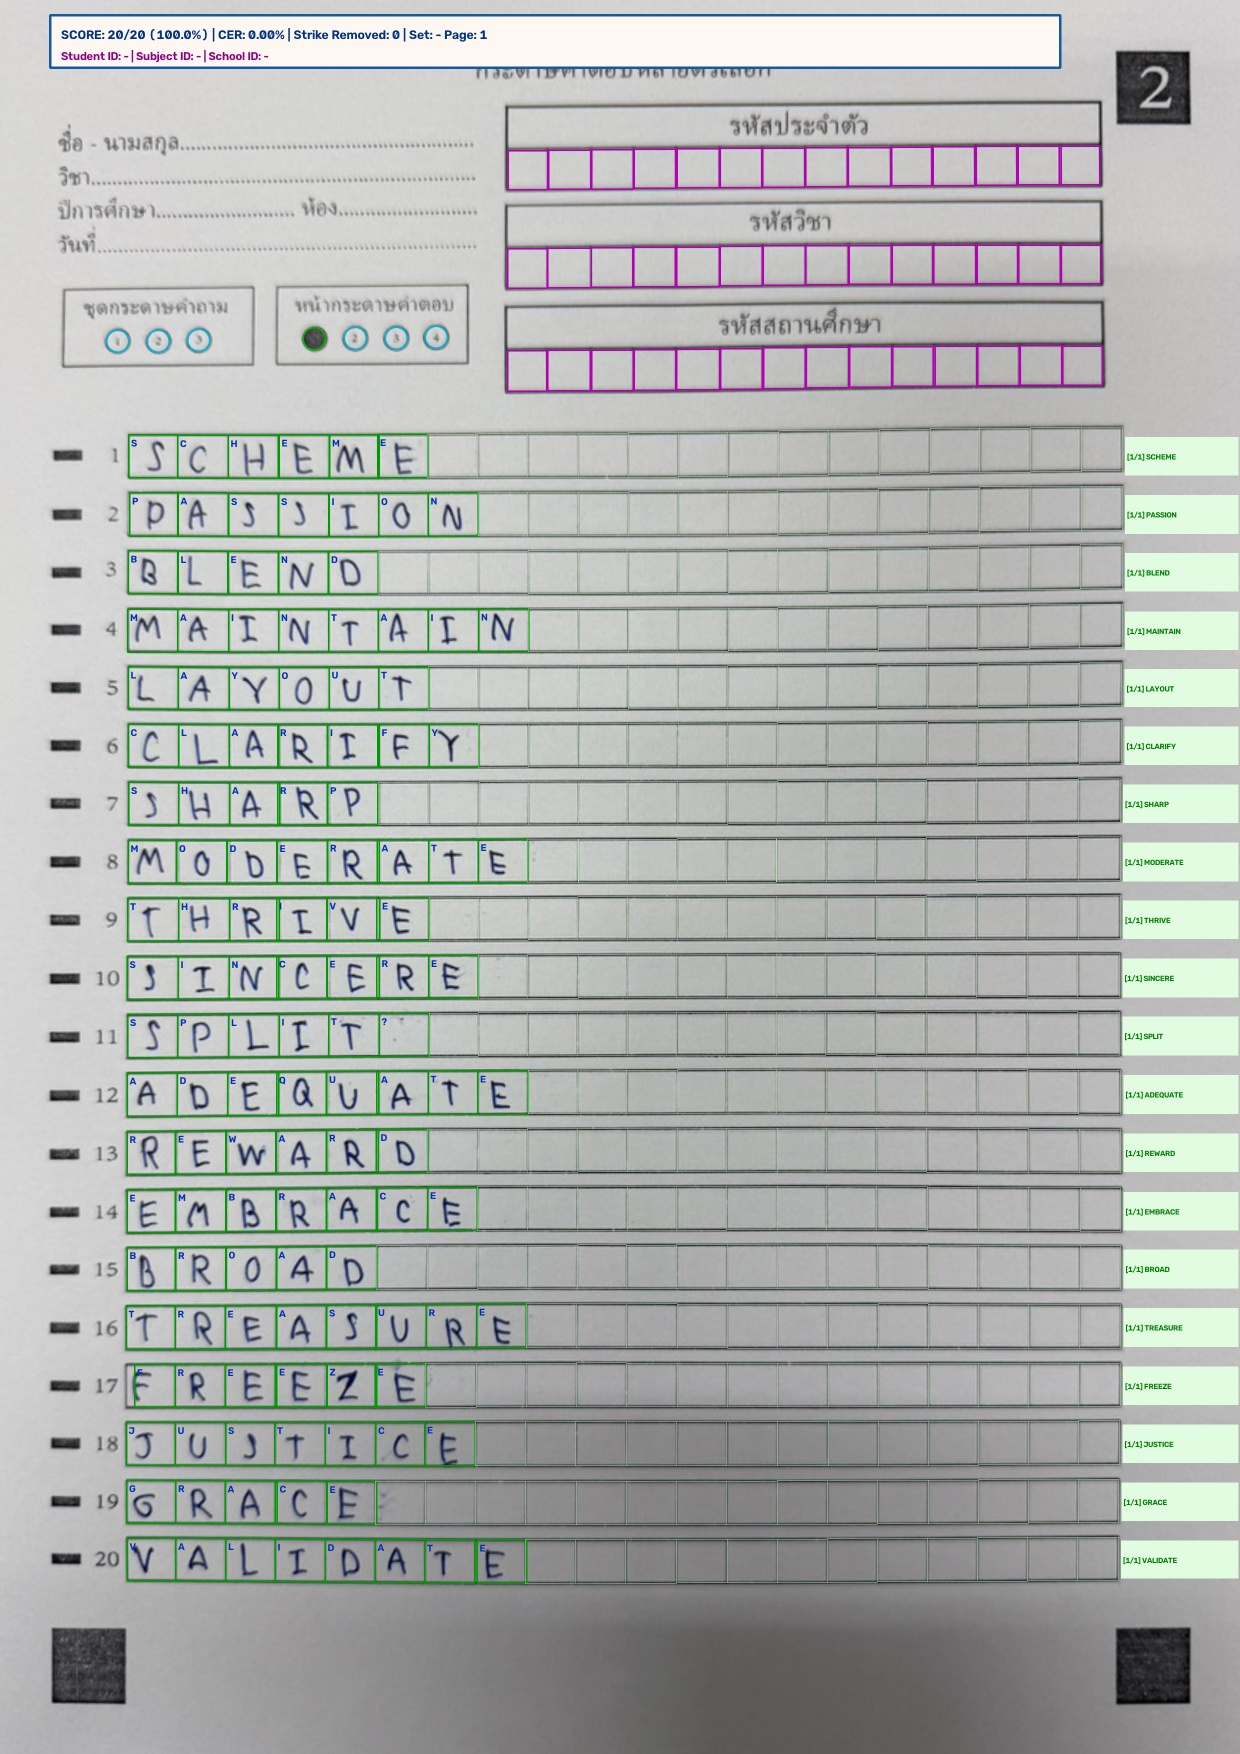
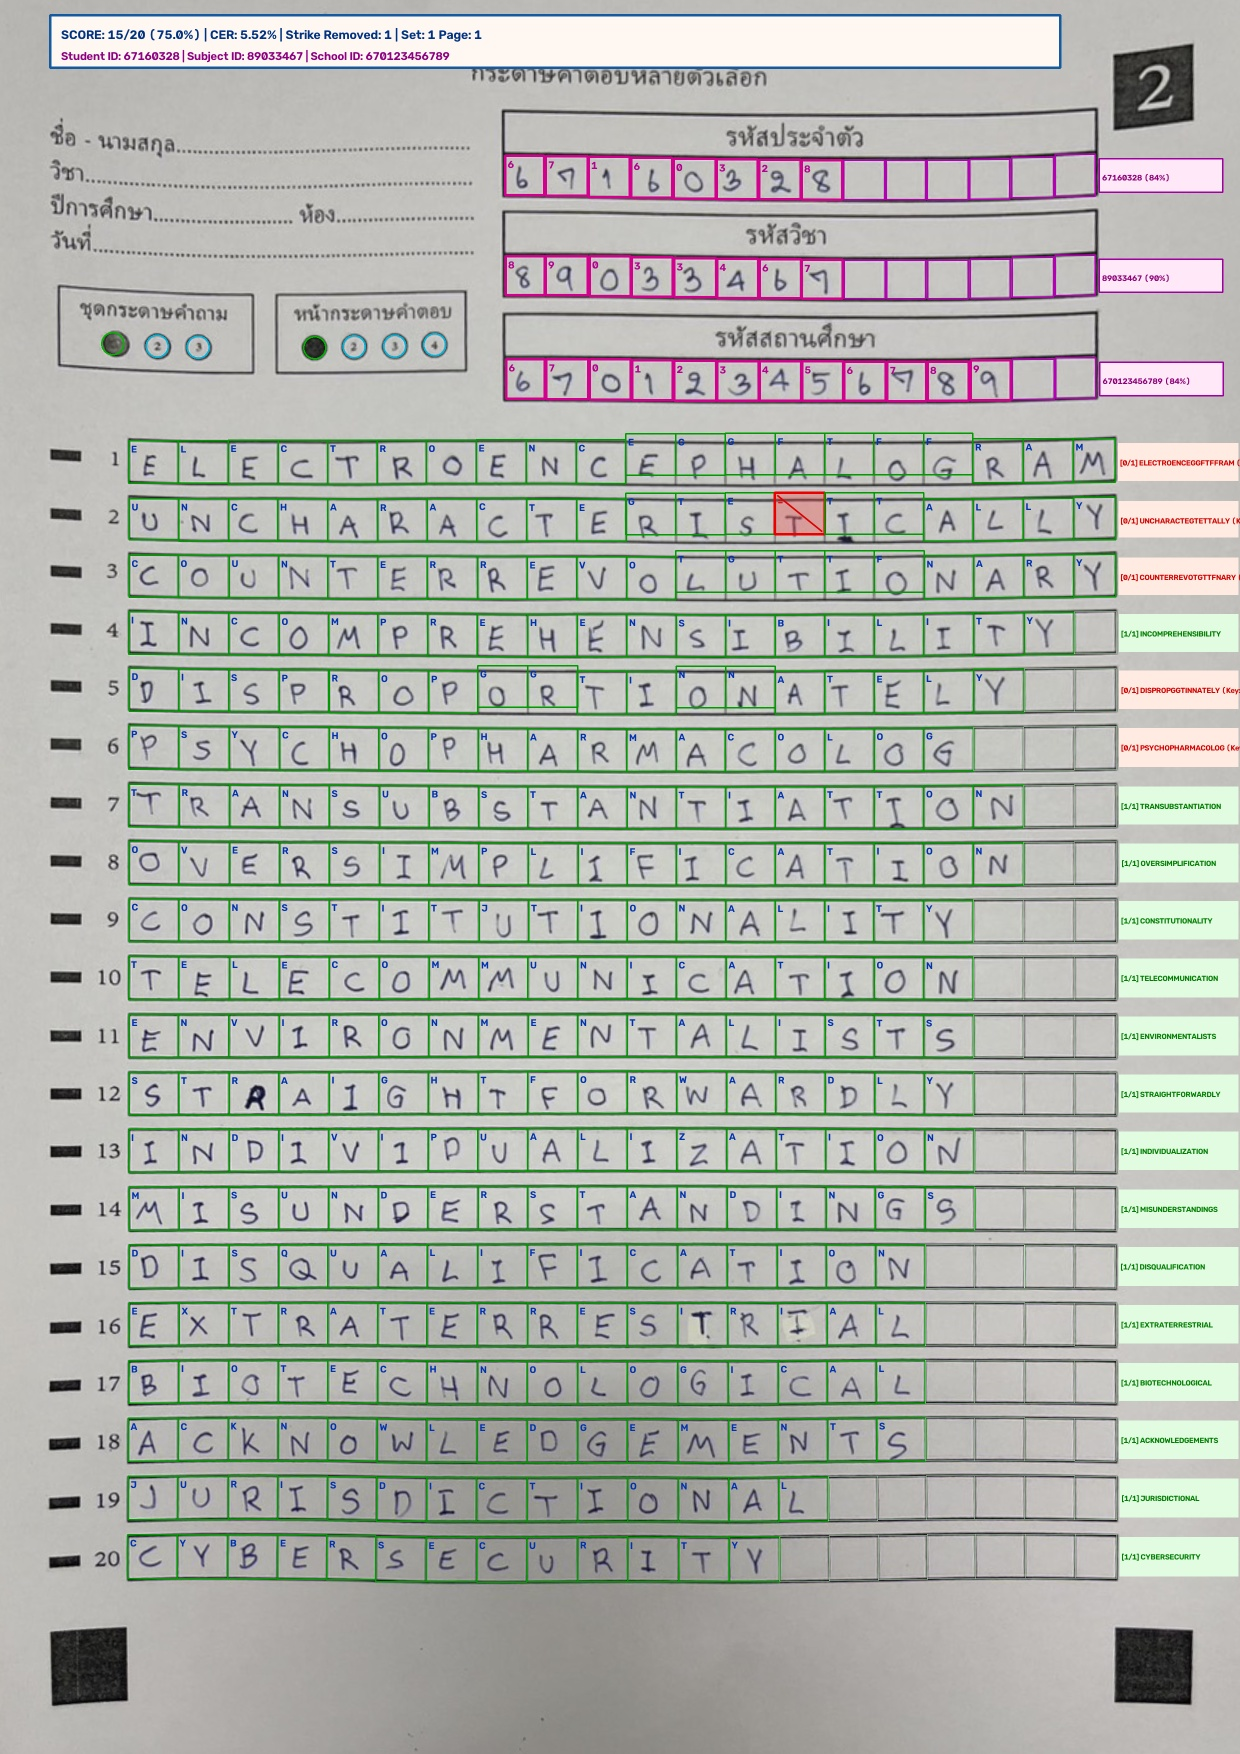
fix(pipeline): resolve student ID 7 vs 9, timing bar 20/20 detection, and exact OMR alignment

diff --git a/src/recognition/digit_classifier.py b/src/recognition/digit_classifier.py
@@ -237,6 +237,11 @@ class DigitRecognizerEngine:
         self.mean_norm = 0.1307
         self.std_norm = 0.3081
 
+        if weights_path is None:
+            default_weights = os.path.join(os.path.dirname(__file__), "..", "..", "models", "hcr_resnet28_digits.pt")
+            if os.path.exists(default_weights):
+                weights_path = default_weights
+
         if weights_path and os.path.exists(weights_path):
             state = torch.load(weights_path, map_location=self.device)
             if "model_state_dict" in state:
@@ -285,14 +290,33 @@ class DigitRecognizerEngine:
             logits = self.model(tensor_batch) / self.temperature
             probs = F.softmax(logits, dim=-1).cpu().numpy()
 
-            for i, (f_name, c_idx, _, _) in enumerate(non_empty_meta):
+            for i, (f_name, c_idx, _, glyph_img) in enumerate(non_empty_meta):
                 p = probs[i]
                 top3_idx = np.argsort(p)[::-1][:3]
                 t1, t2 = int(top3_idx[0]), int(top3_idx[1])
                 conf = float(p[t1])
                 margin = float(p[t1] - p[t2])
                 top3_list = [(DIGITS[int(k)], round(float(p[int(k)]), 4)) for k in top3_idx]
-                pred_lookup[(f_name, c_idx)] = (DIGITS[t1], conf, margin, top3_list)
+                pred_digit = DIGITS[t1]
+
+                # Topological Disambiguation for 7 vs 9:
+                # เลข 9 ตามสัณฐานวิทยาต้องมีวงปิด (Closed Loop / Euler Hole) บริเวณส่วนบน
+                # หากทำนายเป็น 9 แต่ไม่มีวงปิดด้านใน (No Enclosed Cavity) และมี '7' ใน Top-3
+                if pred_digit == "9":
+                    bin_g = (glyph_img > 60).astype(np.uint8) * 255
+                    cnts, hier = cv2.findContours(bin_g, cv2.RETR_CCOMP, cv2.CHAIN_APPROX_SIMPLE)
+                    has_hole = False
+                    if hier is not None:
+                        for k, h in enumerate(hier[0]):
+                            if h[3] != -1 and cv2.contourArea(cnts[k]) >= 4.0:
+                                has_hole = True
+                    if not has_hole and conf < 0.85:
+                        top3_dict = dict(top3_list)
+                        if "7" in top3_dict and top3_dict["7"] >= 0.03:
+                            pred_digit = "7"
+                            conf = max(conf, float(top3_dict["7"]))
+
+                pred_lookup[(f_name, c_idx)] = (pred_digit, conf, margin, top3_list)
 
         # ประกอบผลลัพธ์รายแถว (14 ช่องต่อแถว)
         for field_name in ["student_id", "subject_id", "school_id"]:

diff --git a/src/preprocessing/dewarp.py b/src/preprocessing/dewarp.py
@@ -426,7 +426,7 @@ class FiducialDewarper:
         ค้นหาจุดศูนย์กลางของขีดดำ Timing Bar ซ้ายบนสุด (ข้อที่ 1) เพื่อใช้เป็นจุดอ้างอิงที่ 4 จริง (True 4th Projective Anchor)
         ตรวจสอบความเรียงตัวเป็นเส้นตรงและระยะห่างระหว่างแถว (~115 px) อย่างน้อย 12 แถวเพื่อป้องกันสัญญาณรบกวนจากขอบโต๊ะไม้
         """
-        y_top, y_bot = 740, 3230
+        y_top, y_bot = 580, 3230
         x_min, x_max = 60, 430
         roi = rectified_norm_gray[y_top:y_bot, x_min:x_max]
         dark = (roi < 178).astype(np.uint8) * 255
@@ -456,7 +456,7 @@ class FiducialDewarper:
         if len(dedup) < 12:
             return None
 
-        # กรองเฉพาะชุดขีดดำที่มีระยะห่างแถวสม่ำเสมอ (~100..132 px) โดยต้องเริ่มจากขีดบนสุดที่มีขีดถัดไปห่าง ~115 px
+        # กรองเฉพาะชุดขีดดำที่มีระยะห่างแถวสม่ำเสมอ (~100..135 px)
         valid_chain = []
         for i in range(len(dedup)):
             chain = [dedup[i]]
@@ -476,13 +476,18 @@ class FiducialDewarper:
         if len(valid_chain) < 12:
             return None
 
-        pts = np.array(valid_chain[:20], dtype=np.float32)
+        pts = np.array(valid_chain, dtype=np.float32)
         slope_x, intercept_x = np.polyfit(pts[:, 1], pts[:, 0], 1)
-        top_y = float(pts[0, 1])
-        if 750.0 <= top_y <= 990.0:
-            top_x = float(intercept_x + slope_x * top_y)
-            return (top_x, top_y)
-        return None
+        dy_steps = np.diff(pts[:, 1])
+        med_pitch = float(np.median(dy_steps)) if len(dy_steps) > 0 else 116.0
+        
+        # หากตรวจพบขีดล่างสุดแถว 20 (y > 2880) ให้คำนวณตำแหน่งแถว 1 ย้อนกลับขึ้นไป 19 ช่องเสมอ
+        if pts[-1, 1] > 2880.0 and len(pts) >= 14:
+            top_y = float(pts[-1, 1] - 19.0 * med_pitch)
+        else:
+            top_y = float(pts[0, 1])
+        top_x = float(intercept_x + slope_x * top_y)
+        return (top_x, top_y)
 
     def _evaluate_rectified_quality(
         self, rectified_norm_gray: np.ndarray

diff --git a/src/detection/grid_extractor.py b/src/detection/grid_extractor.py
@@ -216,21 +216,44 @@ class Template2GridExtractor:
         matched = np.zeros((self.NUM_QUESTIONS, 2), dtype=np.float32)
         if len(dedup) >= 2:
             pts_arr = np.array(dedup, dtype=np.float32)
-            dy_offset = float(np.median(pts_arr[:, 1]) - np.median(self.CANONICAL_ROW_YS))
+            # คำนวณ dy_offset แบบ Consensus Voting เทียบกับขีดมาตรฐานที่ใกล้ที่สุด
+            # เพื่อไม่ให้ค่า Offset เลื่อนเมื่อมีขีดบนสุดหรือล่างสุดขาดหายไป
+            offsets = []
+            for p in dedup:
+                dists = [p[1] - can_y for can_y in self.CANONICAL_ROW_YS]
+                nearest_j = int(np.argmin(np.abs(dists)))
+                if abs(dists[nearest_j]) < 55.0:
+                    offsets.append(dists[nearest_j])
+            dy_offset = float(np.median(offsets)) if offsets else 0.0
             med_x = float(np.median(pts_arr[:, 0]))
         else:
             dy_offset = 0.0
             med_x = default_x
 
+        used_indices = set()
         for i in range(self.NUM_QUESTIONS):
             exp_y = self.CANONICAL_ROW_YS[i] + dy_offset
-            if dedup:
-                dists = [abs(p[1] - exp_y) for p in dedup]
-                min_idx = int(np.argmin(dists))
-                if dists[min_idx] < 45.0:
-                    matched[i] = dedup[min_idx]
-                    continue
-            matched[i] = [med_x, exp_y]
+            best_idx = None
+            best_dist = 48.0
+            for d_idx, p in enumerate(dedup):
+                if d_idx not in used_indices:
+                    d = abs(p[1] - exp_y)
+                    if d < best_dist:
+                        best_dist = d
+                        best_idx = d_idx
+            if best_idx is not None:
+                matched[i] = dedup[best_idx]
+                used_indices.add(best_idx)
+            else:
+                matched[i] = [med_x, exp_y]
+
+        # ปรับความตรงของแกน X ด้วย Linear Fit
+        if len(used_indices) >= 10:
+            slope_x, intercept_x = np.polyfit(matched[:, 1], matched[:, 0], 1)
+            for i in range(self.NUM_QUESTIONS):
+                pred_x = intercept_x + slope_x * matched[i, 1]
+                if abs(matched[i, 0] - pred_x) > 12.0 or i not in used_indices:
+                    matched[i, 0] = pred_x
 
         return matched, raw_found_count
 

diff --git a/test_sheet.py b/test_sheet.py
@@ -74,13 +74,13 @@ def main():
     parser.add_argument(
         "image_path",
         nargs="?",
-        default="data/Test/ตัวอย่างที่ 3.jpg",
-        help="พาธไฟล์ภาพกระดาษคำตอบ (เช่น data/Test/ตัวอย่างที่ 3.jpg)",
+        default="data/Test/ทดสอบคำตอบ 3.jpg",
+        help="พาธไฟล์ภาพกระดาษคำตอบ (เช่น data/Test/ทดสอบคำตอบ 3.jpg)",
     )
     parser.add_argument(
         "--output",
         "-o",
-        default="metrics/visuals/single_test_result.jpg",
+        default="metrics/visuals/single_test_result_3.jpg",
         help="พาธสำหรับบันทึกภาพผลการตรวจพร้อม Overlay",
     )
     args = parser.parse_args()
